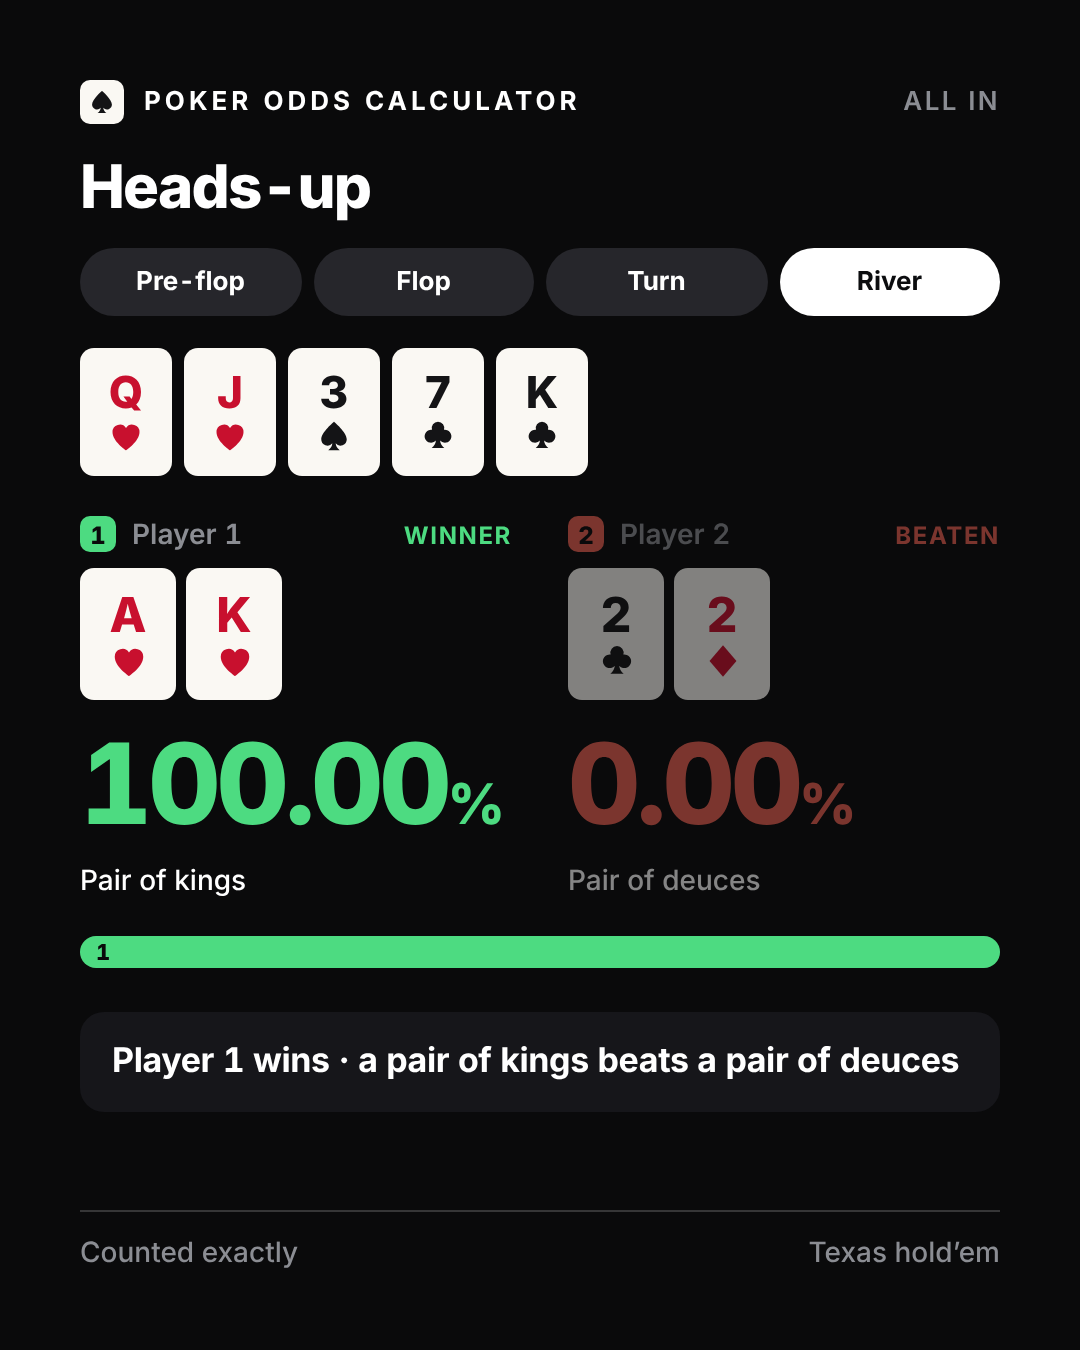
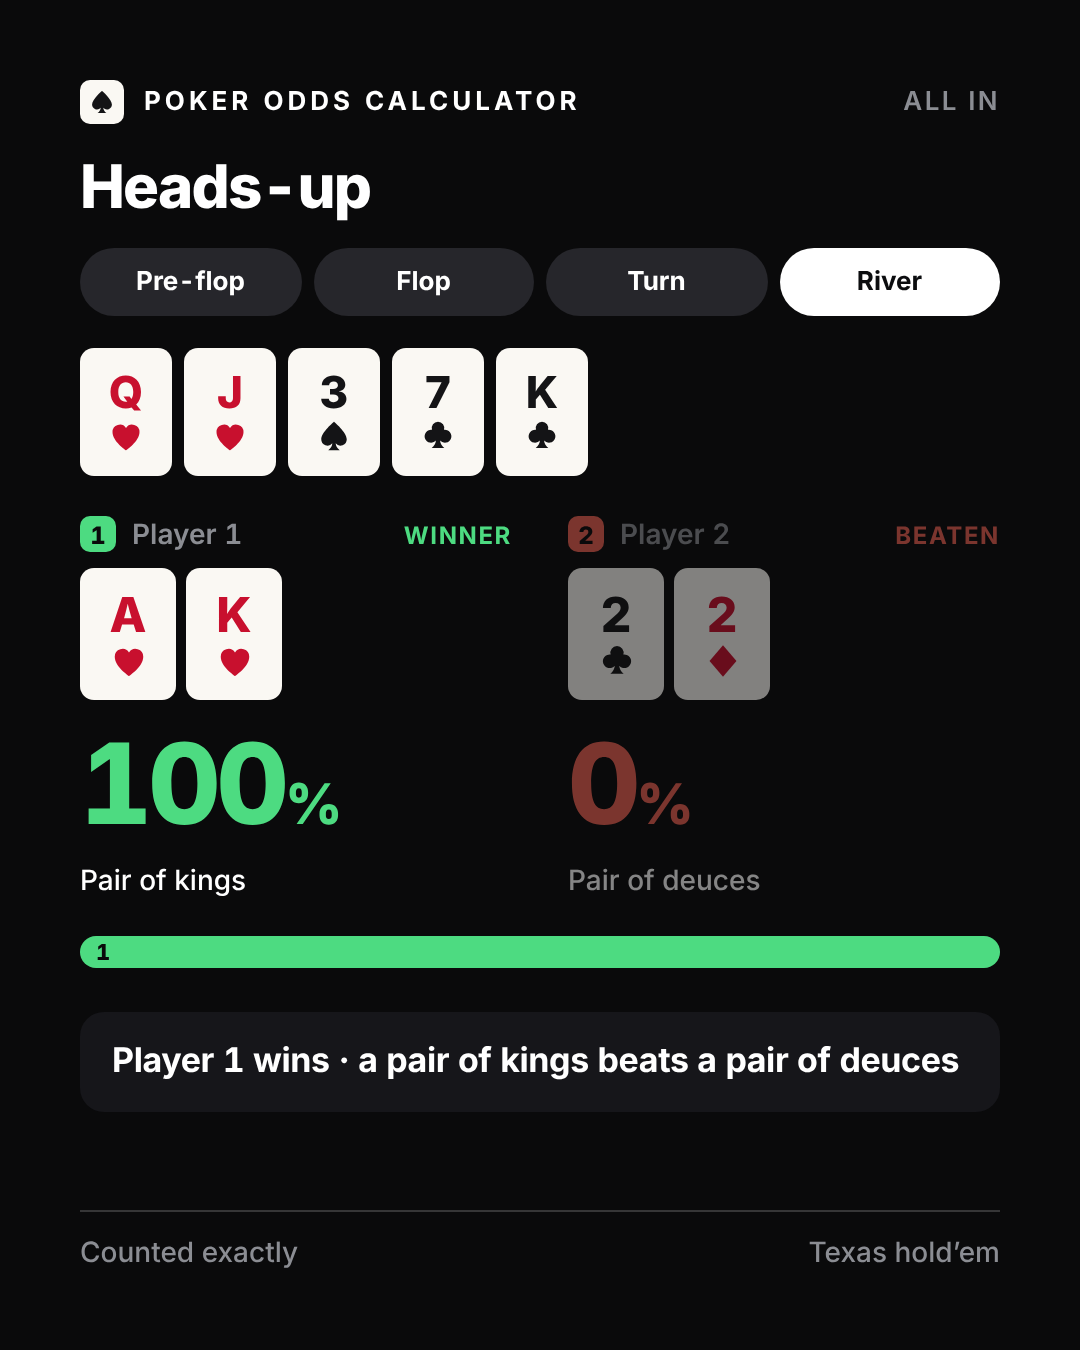
Handoff: whole numbers on a settled board (decided 26 October), not built
On the river every figure is a whole number: 100% and 0%, or 50% and 50% on a
split. Recorded in decided-2026-10-25.md § 8; the river run-out board
re-rendered with it.

Claude-Session: https://claude.ai/code/session_01Xg8AKYkpz7UbL9Sy8LZgZU

Changed region(s): [[0.5806, 0.5289, 0.7944, 0.6222], [0.2444, 0.5289, 0.4583, 0.6222]]

diff --git a/design/handoff-odds-calculator/decided-2026-10-25.md b/design/handoff-odds-calculator/decided-2026-10-25.md
@@ -276,6 +276,11 @@ What the owner settled on the four street frames and the one-card summary
   card on the river in the app (§ 4), where the outs chips never show. Needs one
   engine function that names a ranked hand and says whether the kicker decided.
   Not built.
+- **Whole numbers on a settled board** (owner, 26 October): on the river, where
+  nothing is left to count, the figures lose their decimals — `100%` and `0%`,
+  or `50%` and `50%` on a split, `Tie 0%` — on the run-out frames and on the
+  player cards in the app alike. Every other street keeps two decimals. Not
+  built.
 - **Formats, my pick, not yet confirmed:** an in-app *Run it out* replay first (no
   new package; a screen recording is the video), then the one-card PNG through
   the same share sheet; MP4 later, rendered off the phone; GIF only as a
